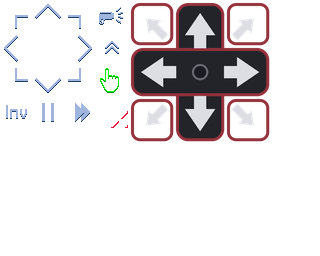
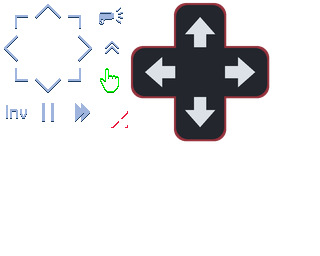
Refine compact four-way touch D-pad

diff --git a/src/input/touch_controls.rs b/src/input/touch_controls.rs
@@ -137,11 +137,13 @@ impl TouchControls {
             }
             TouchControlType::Controls => {
                 let batch = texture_set.get_or_load_batch(ctx, constants, "builtin/touch")?;
-                // Circular movement D-pad
-                batch.add_rect_tinted(
+                // Compact four-direction D-pad
+                batch.add_rect_scaled_tinted(
                     4.0 + 8.0 + left,
-                    canvas_size.1 - 4.0 - 144.0 + 8.0 - bottom,
+                    canvas_size.1 - 4.0 - 108.0 + 8.0 - bottom,
                     color,
+                    0.75,
+                    0.75,
                     &Rect::new_size(128, 0, 144, 144),
                 );
 
